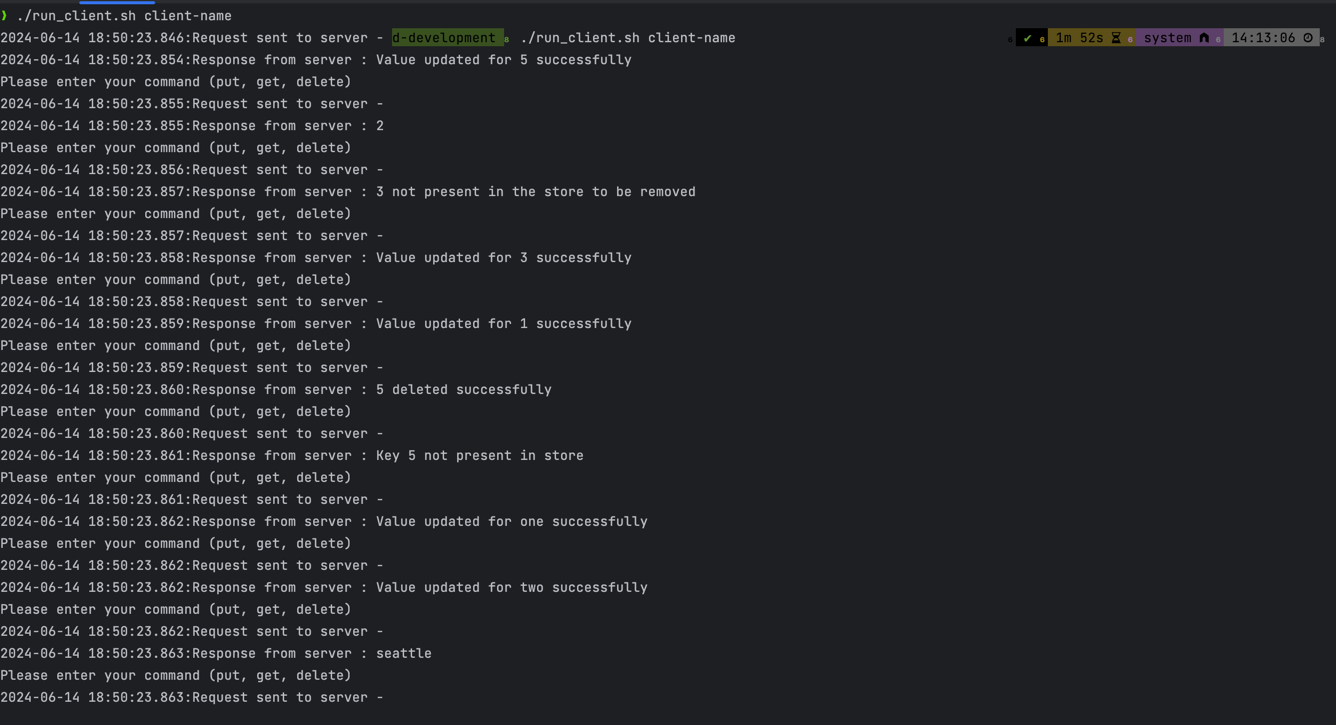
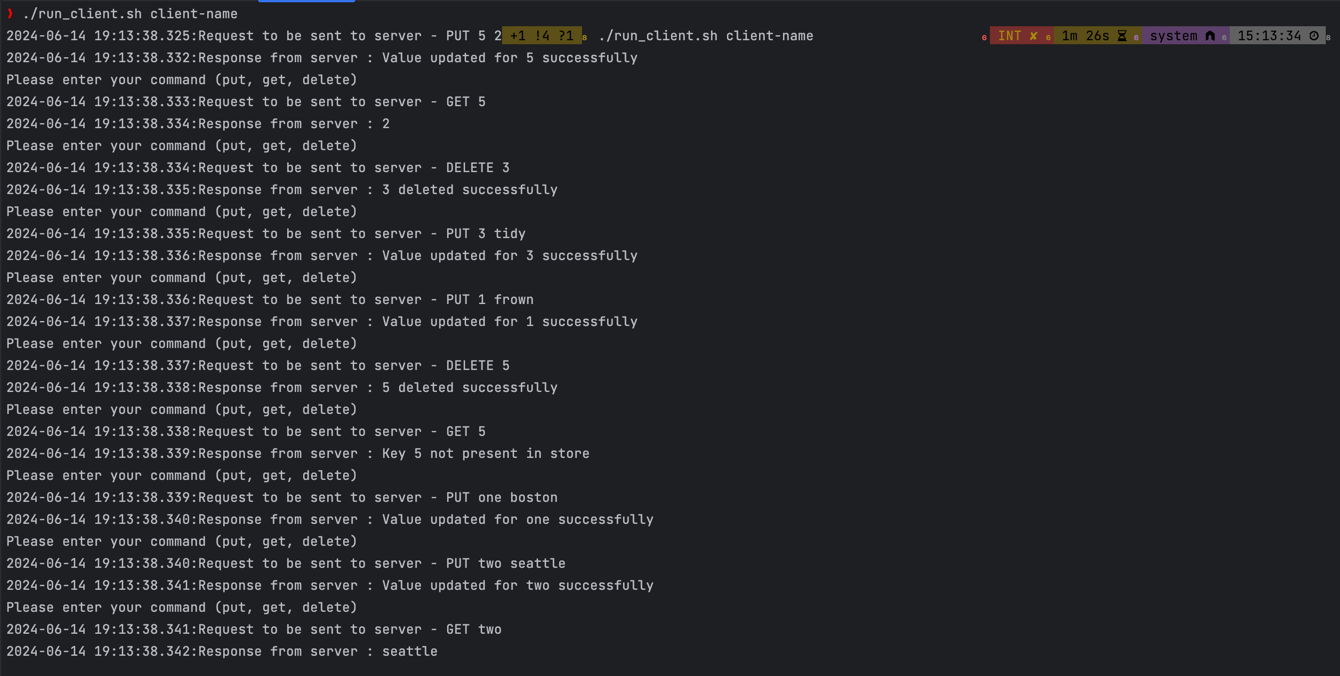
Dockerfile update

Changed region(s): [[0.0, 0.0, 0.6138, 0.9941], [0.7365, 0.0311, 1.0, 0.0621], [0.3376, 0.1243, 0.3683, 0.1553]]

diff --git a/src/client/ClientImpl.java b/src/client/ClientImpl.java
@@ -40,7 +40,7 @@ public class ClientImpl implements Client {
         System.out.println("Exiting...");
         return;
       }
-      log("Request sent to server - ");
+      log("Request to be sent to server - " + inputText);
       dispatchRequest(inputText.split(" "));
       System.out.println("Please enter your command (put, get, delete)");
     }

diff --git a/Readme.md b/Readme.md
@@ -1,6 +1,6 @@
 # Project 1
 
-#### Running the Server and Client
+#### Running the Server and Client (Docker)
 * Execute `deploy.sh` to run the server application as a docker container and set up a docker network
 * Execute `run_client.sh` to run a client that connects to the server. Examples to run the code is as below:
   * ./run_client.sh client-name (Runs the client interactively)
